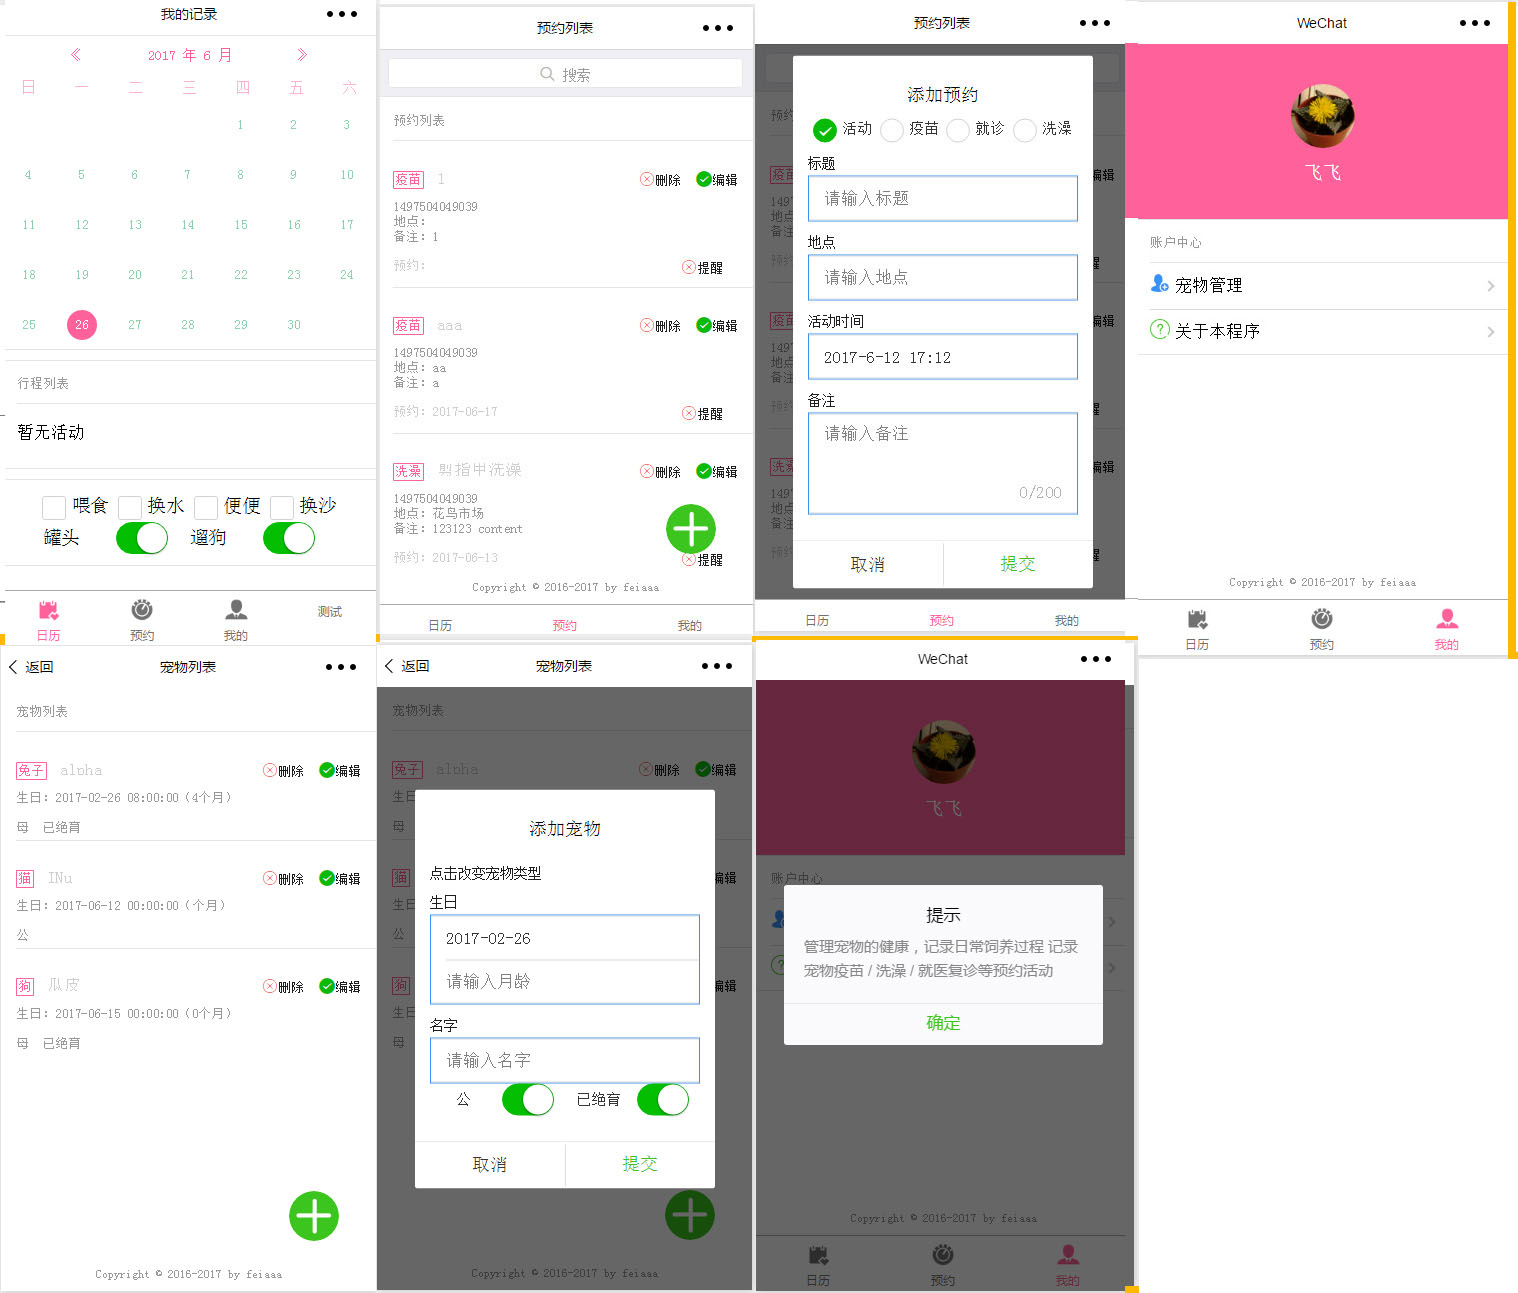
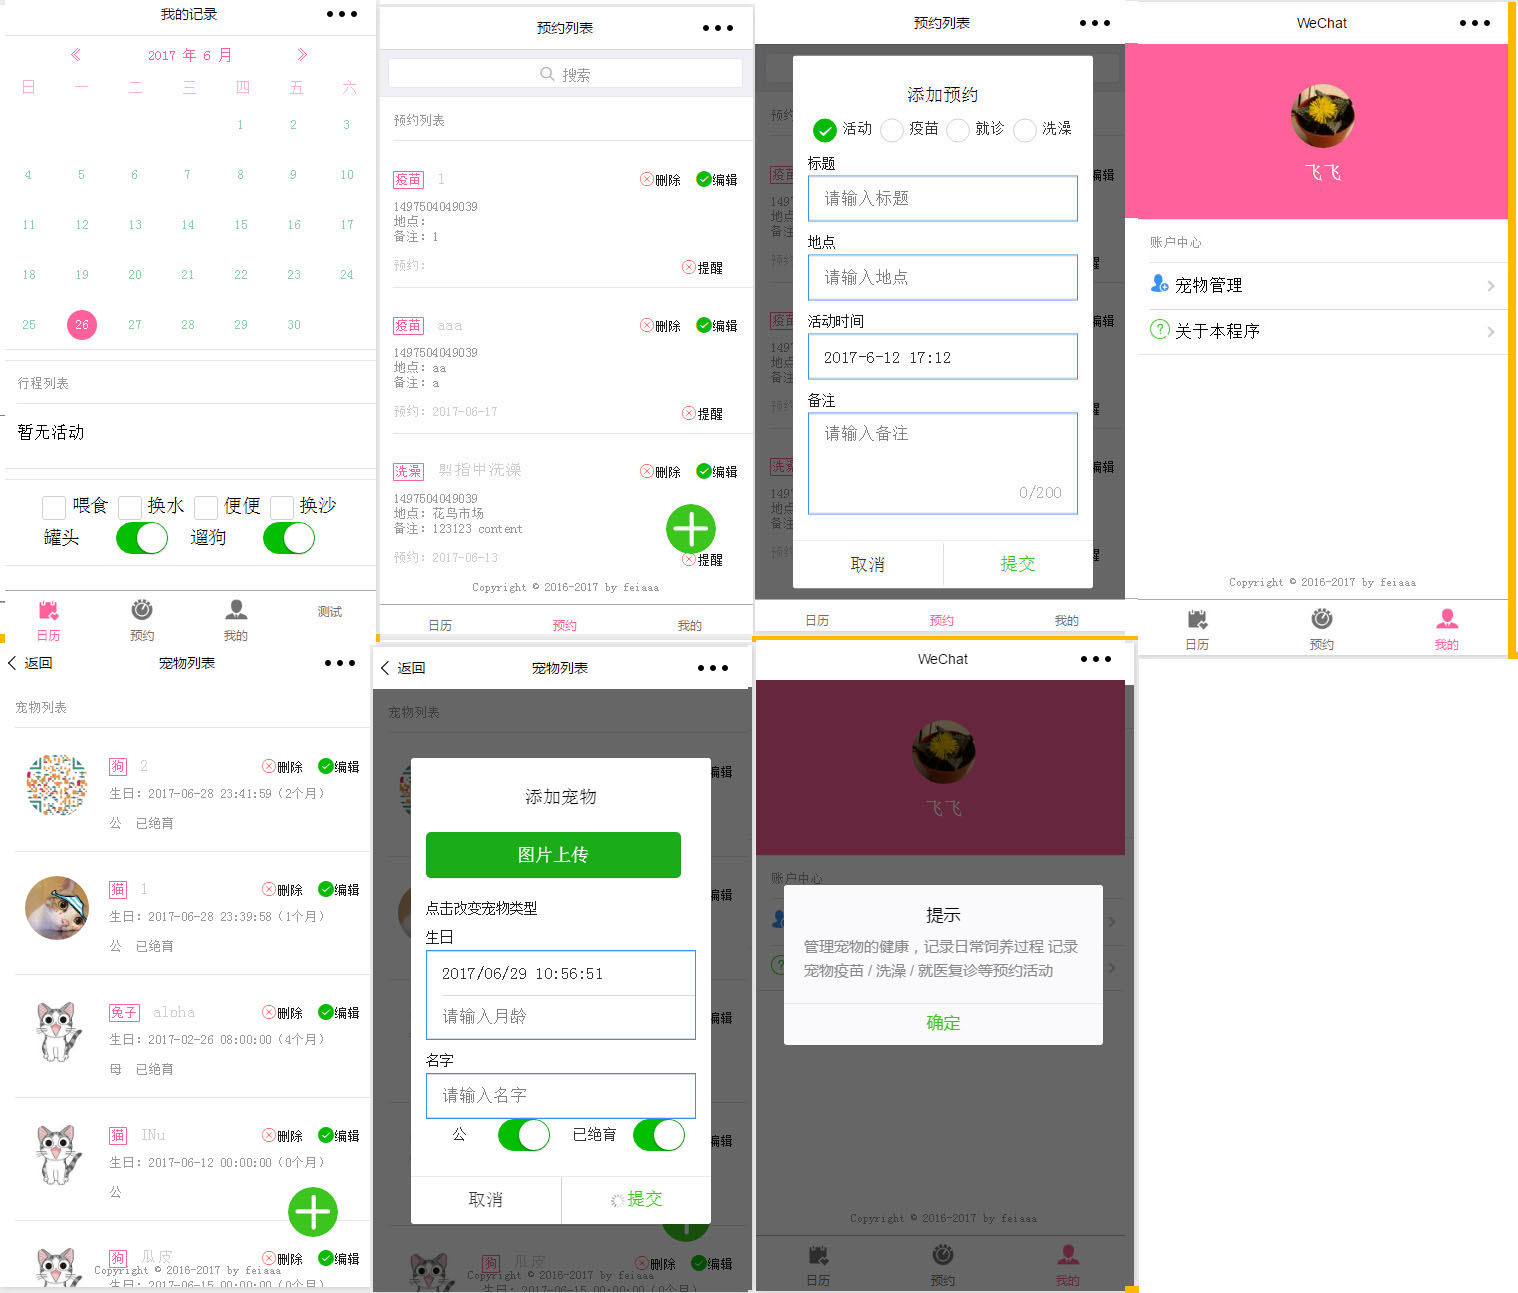
6-30

diff --git a/pages/petlist/petlist.js b/pages/petlist/petlist.js
@@ -24,7 +24,10 @@ Page({
     windowWidth: 0,
     limit: 10,
     petList: [],
-    modifyPets: false
+    modifyPets: false,
+    urlArr: [],
+    loading: true,
+    url:''
   },
   /**
      * 监听普通picker选择器
@@ -102,6 +105,68 @@ Page({
     })
     this.onShow()
   },
+  /*
+* upImg start
+*/
+  upImg: function () {
+    var that = this;
+    wx.chooseImage({
+      count: 9, // 默认9
+      sizeType: ['compressed'], // 可以指定是原图还是压缩图，默认二者都有
+      sourceType: ['album', 'camera'], // 可以指定来源是相册还是相机，默认二者都有
+      success: function (res) {
+        wx.showNavigationBarLoading()
+        that.setData({
+          loading: false
+        })
+        var urlArr = new Array();
+        // var urlArr={};
+        var tempFilePaths = res.tempFilePaths;
+        console.log(tempFilePaths)
+        var imgLength = tempFilePaths.length;
+        if (imgLength > 0) {
+          var newDate = new Date();
+          var newDateStr = newDate.toLocaleDateString();
+
+          var j = 0;
+          for (var i = 0; i < imgLength; i++) {
+            var tempFilePath = [tempFilePaths[i]];
+            var extension = /\.([^.]*)$/.exec(tempFilePath[0]);
+            if (extension) {
+              extension = extension[1].toLowerCase();
+            }
+            var name = newDateStr + "." + extension;//上传的图片的别名      
+
+            var file = new Bmob.File(name, tempFilePath);
+            file.save().then(function (res) {
+              wx.hideNavigationBarLoading()
+              var url = res.url();
+              console.log("第" + i + "张Url" + url);
+
+              urlArr.push({ "url": url });
+              j++;
+              console.log(j, imgLength);
+              // if (imgLength == j) {
+              //   console.log(imgLength, urlArr);
+              //如果担心网络延时问题，可以去掉这几行注释，就是全部上传完成后显示。
+              showPic(urlArr, that)
+              // }
+
+            }, function (error) {
+              console.log(error)
+            });
+
+          }
+
+        }
+
+      }
+    })
+  },
+/*
+ * upImg end
+ */
+
   toAddPet: function () {
     that.setData({
       writePet: true
@@ -116,6 +181,8 @@ Page({
      
     var gender = event.detail.value.gender;    
     var steri = event.detail.value.steri;
+    var avatarID = event.detail.value.avatarID;
+    
 
     var regNum = new RegExp('[0-9]', 'g');//正则表达式
 
@@ -150,6 +217,7 @@ Page({
       pet.set("tag", tag);
       pet.set("gender", gender);
       pet.set("steri", steri);
+      pet.set("avatarID", avatarID);
 
       if (currentUser) {
         UserModel.id = currentUser.id;
@@ -265,6 +333,12 @@ Page({
     })
   }
 
+
+
+
+
+
+
 })
 
 
@@ -351,4 +425,11 @@ function modify(t, e) {
     })
     common.showTip('修改成功', 'loading');
   }
+}
+//上传完成后显示图片
+function showPic(urlArr, t) {
+  t.setData({
+    loading: true,
+    urlArr: urlArr
+  })
 }

diff --git a/pages/test/test.js b/pages/test/test.js
@@ -1,10 +1,16 @@
+var that;
+var Bmob = require('../../utils/bmob.js');
+var common = require('../../utils/common.js');
+
 //index.js
 //获取应用实例
 var app = getApp()
 Page({
   data: {
     motto: 'Hello World\n',
-    userInfo: {}
+    userInfo: {},
+    urlArr: [],
+    loading: true
   },
   //事件处理函数
   bindViewTap: function() {
@@ -22,5 +28,80 @@ Page({
         userInfo:userInfo
       })
     })
+  },
+
+
+/*
+ * upImg start
+ */
+  upImg: function () {
+    var that = this;
+    wx.chooseImage({
+      count: 9, // 默认9
+      sizeType: ['compressed'], // 可以指定是原图还是压缩图，默认二者都有
+      sourceType: ['album', 'camera'], // 可以指定来源是相册还是相机，默认二者都有
+      success: function (res) {
+        wx.showNavigationBarLoading()
+        that.setData({
+          loading: false
+        })
+        var urlArr = new Array();
+        // var urlArr={};
+        var tempFilePaths = res.tempFilePaths;
+        console.log(tempFilePaths)
+        var imgLength = tempFilePaths.length;
+        if (imgLength > 0) {
+          var newDate = new Date();
+          var newDateStr = newDate.toLocaleDateString();
+
+          var j = 0;
+          for (var i = 0; i < imgLength; i++) {
+            var tempFilePath = [tempFilePaths[i]];
+            var extension = /\.([^.]*)$/.exec(tempFilePath[0]);
+            if (extension) {
+              extension = extension[1].toLowerCase();
+            }
+            var name = newDateStr + "." + extension;//上传的图片的别名      
+
+            var file = new Bmob.File(name, tempFilePath);
+            file.save().then(function (res) {
+              wx.hideNavigationBarLoading()
+              var url = res.url();
+              console.log("第" + i + "张Url" + url);
+
+              urlArr.push({ "url": url });
+              j++;
+              console.log(j, imgLength);
+              // if (imgLength == j) {
+              //   console.log(imgLength, urlArr);
+              //如果担心网络延时问题，可以去掉这几行注释，就是全部上传完成后显示。
+              showPic(urlArr, that)
+              // }
+
+            }, function (error) {
+              console.log(error)
+            });
+
+          }
+
+        }
+
+      }
+    })
   }
+/*
+ * upImg end
+ */
+
+
+
 })
+
+
+//上传完成后显示图片
+function showPic(urlArr, t) {
+  t.setData({
+    loading: true,
+    urlArr: urlArr
+  })
+}

diff --git a/README.md b/README.md
@@ -91,10 +91,18 @@ pages/index/index
 修复switch按钮
 修复picker
 >
-2017-6-25
+>2017-6-25
 回滚到全部input输入，排查无法增加的宠物的问题
 >
 >2017-6-26
 完成：添加宠物
 calendar页面美化
+>
+>2017-6-26
+完成：添加宠物
+calendar页面美化，添加纵向滚条
+>
+>2017- 6-28
+使用滚条的列表，背景颜色非白色（修复，panel 和scroll的css原因）
+宠物列表添加头像展示；添加宠物，上传头像。
 >
